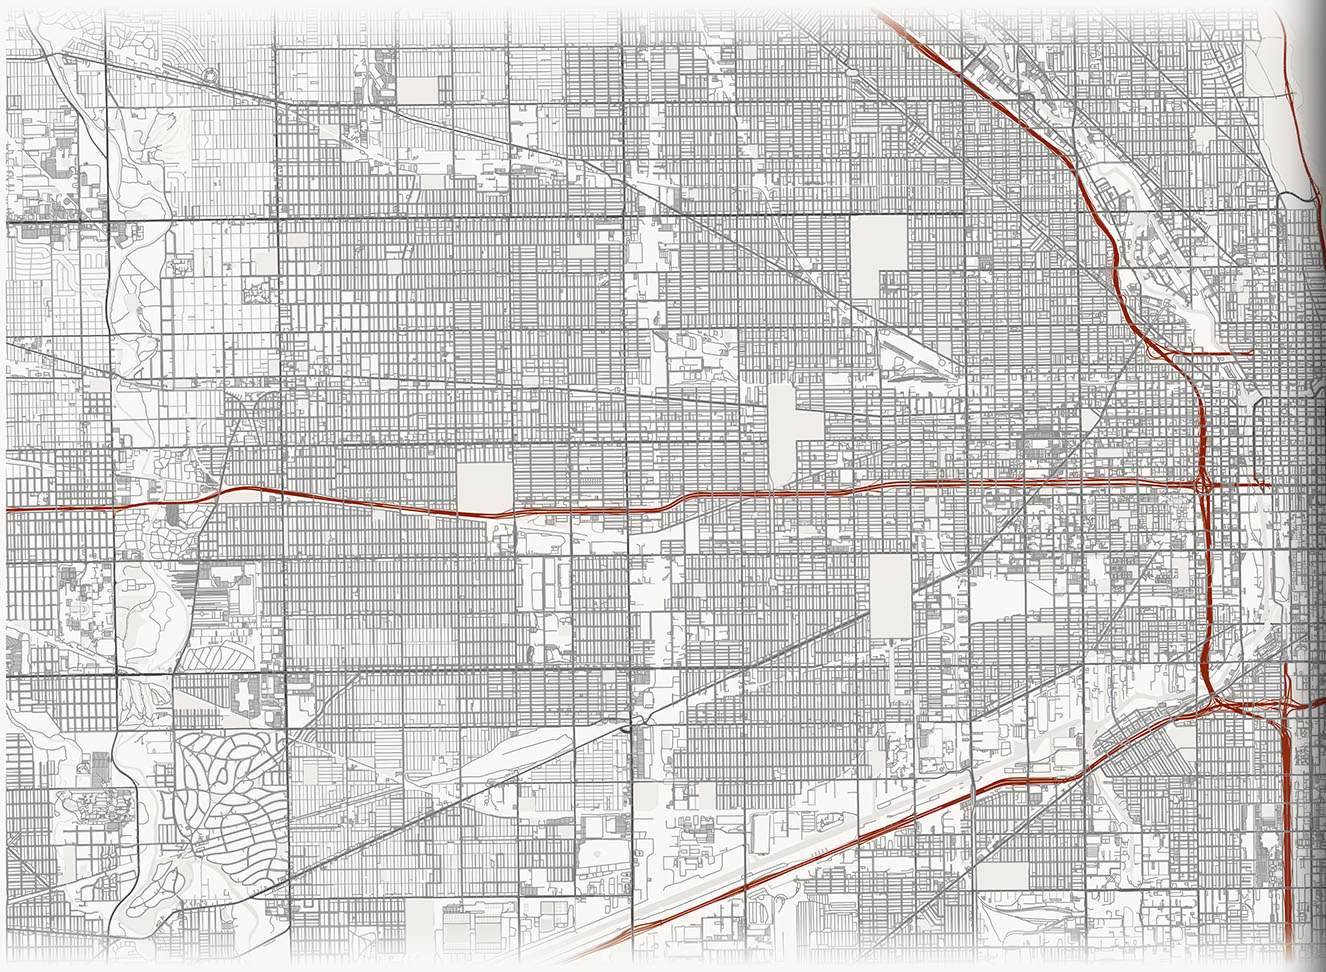
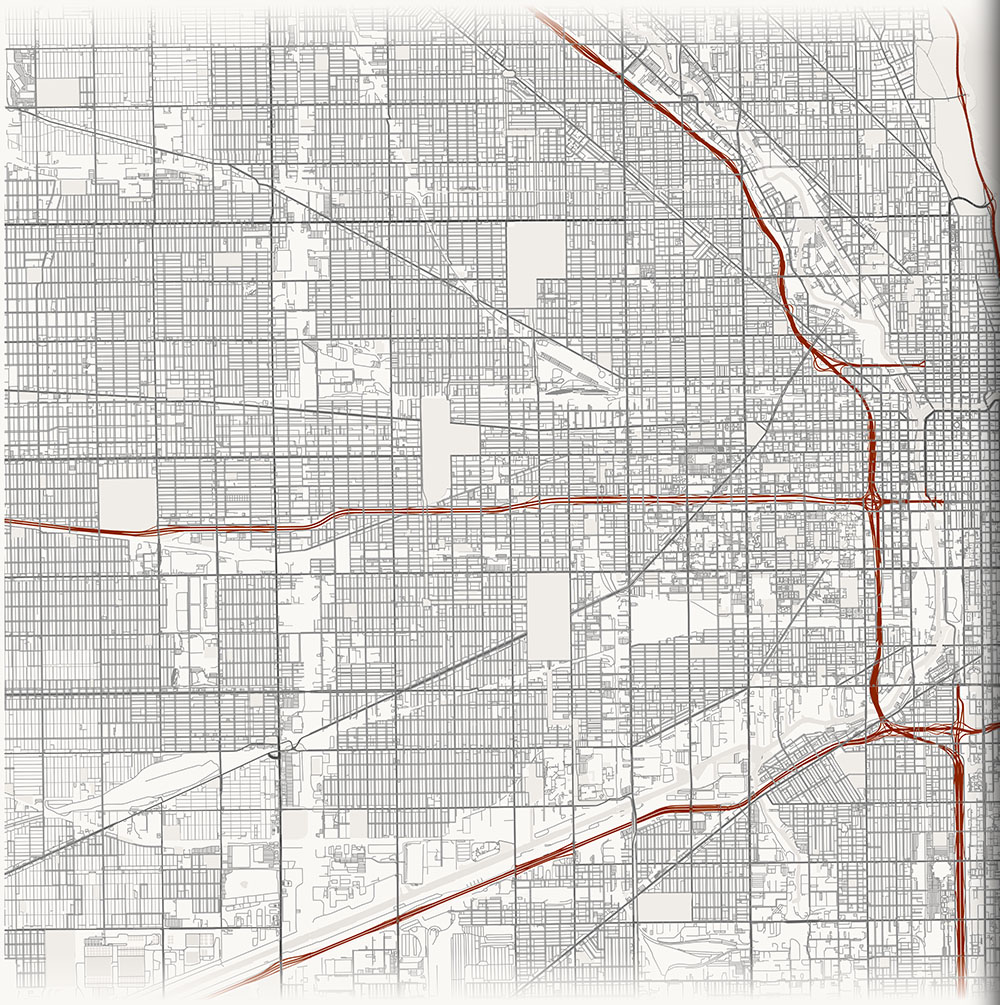
square pages

diff --git a/styles.css b/styles.css
@@ -349,8 +349,8 @@ footer a {
 
 
 :root {
-    --book-width: 545px;
-    --book-height: 400px;
+    --book-width: 550px;
+    --book-height: 550px;
     --flip-speed: 1.5s;
 }
 
